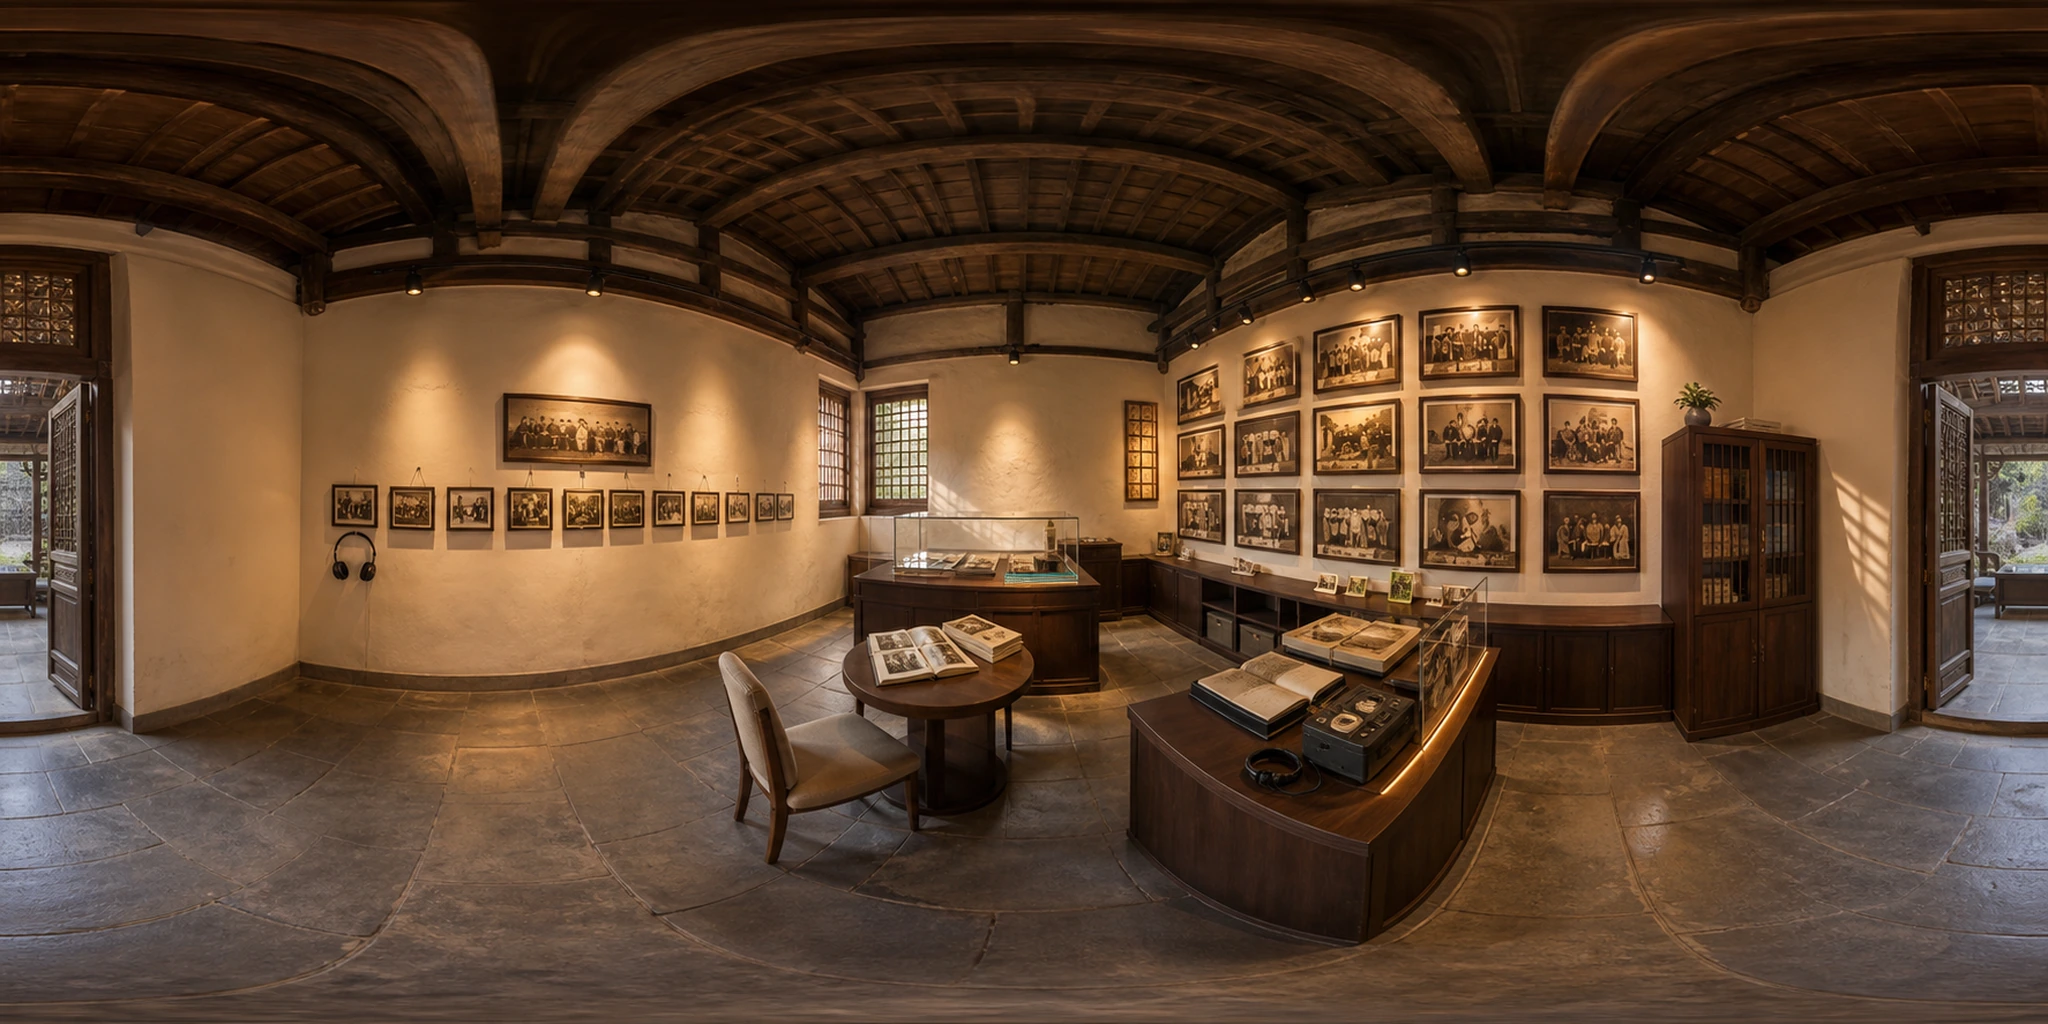
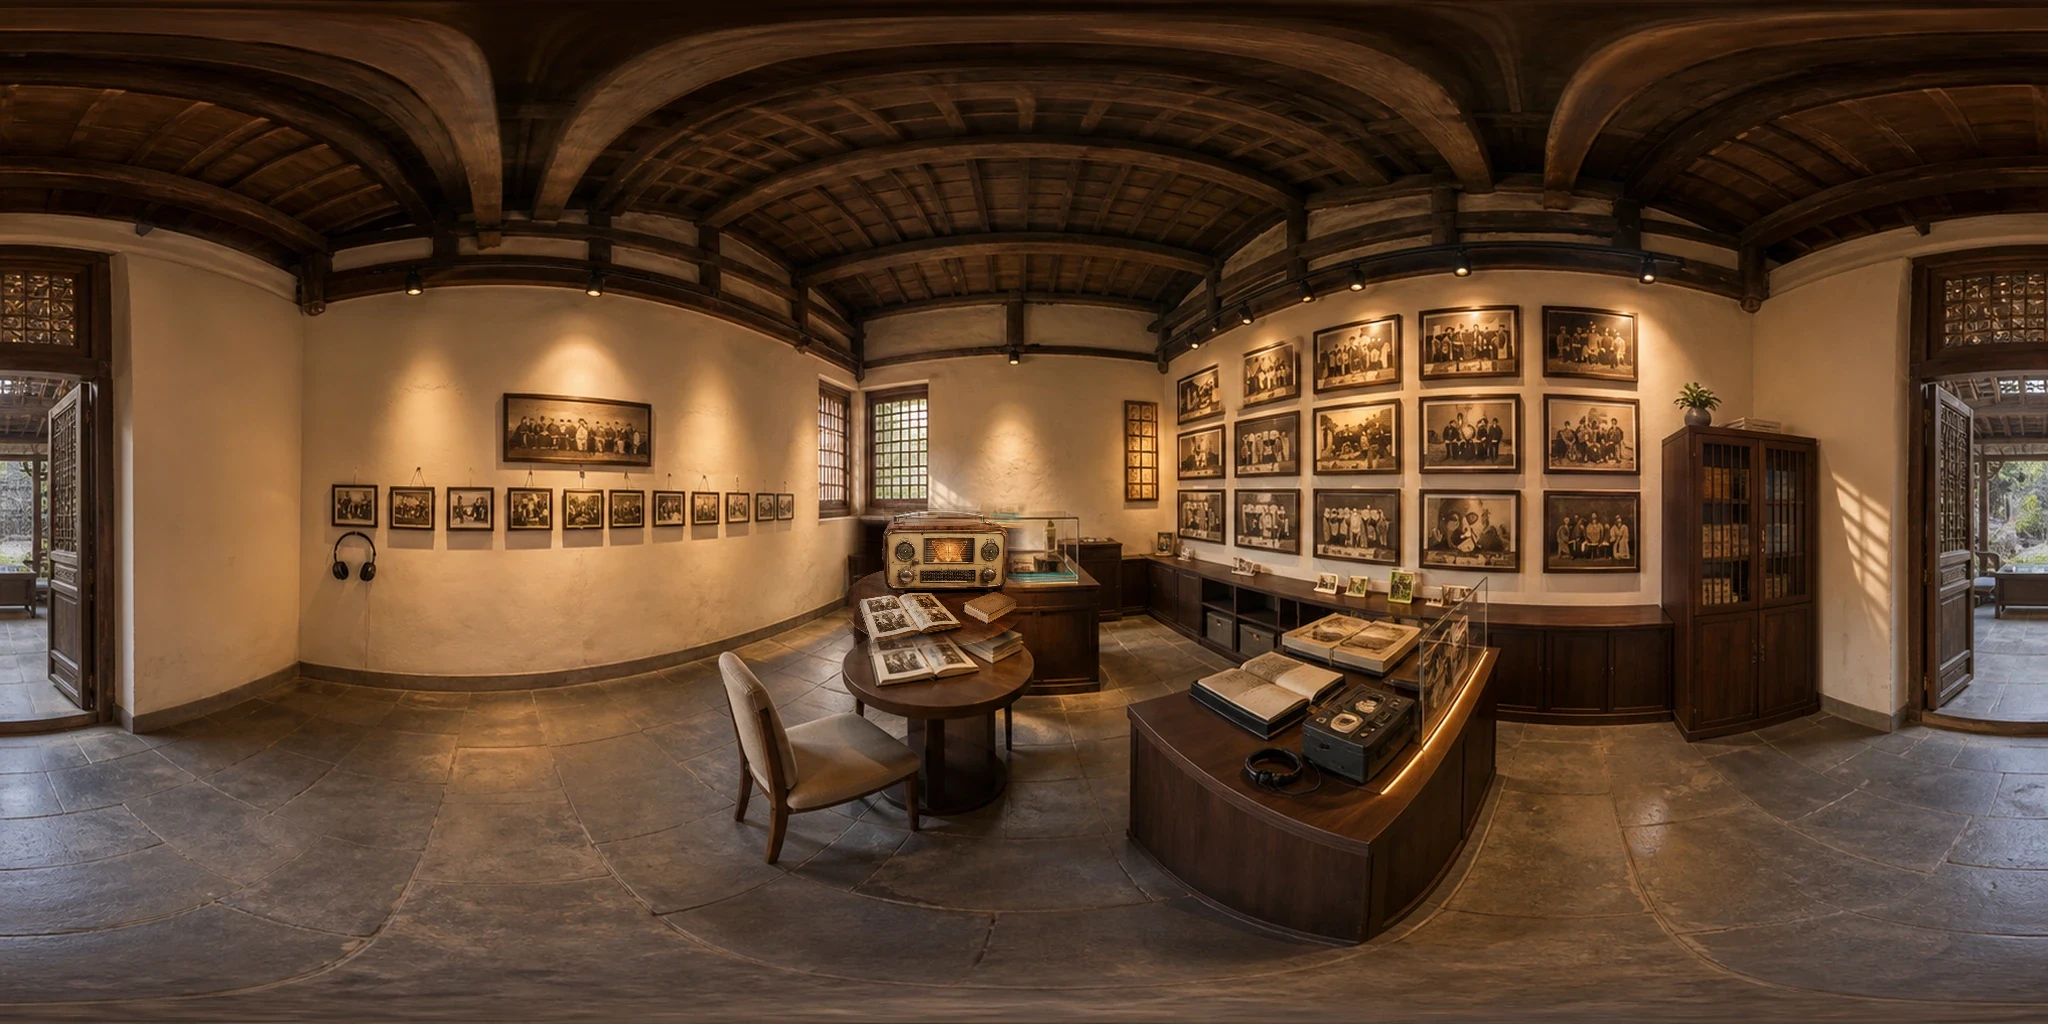
feat: bake user-composited radio into hall-center panorama (in-verse warp + feather), retire 3D radio mesh; texture cache-bust v=15; assets v=3.0.15

Changed region(s): [[0.4062, 0.4688, 0.5, 0.6562]]

diff --git a/panorama.js b/panorama.js
@@ -57,7 +57,7 @@
       id: 'hall-center',
       title: '陈老先生的房间',
       stage: '房间之内 · 3D 收音机正在播放回忆',
-      src: 'assets/panoramas/hall-center.webp',
+      src: 'assets/panoramas/hall-center.webp?v=15',
       thumb: 'assets/panoramas/hall-center-thumb.webp',
       yaw: -0.19,
       pitch: -0.04,
@@ -501,7 +501,7 @@
     const last = index === SCENES.length - 1;
     const insideRoom = index >= 2;
     room.classList.toggle('is-inside-room', insideRoom);
-    radio.visible = insideRoom;
+    radio.visible = false; // 收音机已烘焙进全景贴图（用户合成版），3D 模型退役
     radioLabel.hidden = !insideRoom;
     stageChip.innerHTML = `<span class="led ${last ? 'on-g' : 'on-a'}"></span><span>${node.stage}</span>`;
     [...nodeNav.children].forEach((button, i) => button.classList.toggle('is-active', i === index));

diff --git a/index.html b/index.html
@@ -6,8 +6,8 @@
   <meta name="theme-color" content="#17110b">
   <meta name="description" content="时光回响路演 H5：家人发起采访，让长辈的亲口讲述进入 3D 家庭记忆馆并汇集为人生之书。">
   <title>时光回响 · 家庭记忆馆</title>
-  <link rel="stylesheet" href="styles.css?v=3.0.14">
-  <link rel="stylesheet" href="panorama.css?v=3.0.14">
+  <link rel="stylesheet" href="styles.css?v=3.0.15">
+  <link rel="stylesheet" href="panorama.css?v=3.0.15">
 </head>
 <body data-shell="family">
   <svg class="svg-sprite" aria-hidden="true">
@@ -437,7 +437,7 @@
   </div>
 
   <script src="vendor/three.min.js"></script>
-  <script src="app.js?v=3.0.14"></script>
-  <script src="panorama.js?v=3.0.14"></script>
+  <script src="app.js?v=3.0.15"></script>
+  <script src="panorama.js?v=3.0.15"></script>
 </body>
 </html>

diff --git a/Product-Spec-CHANGELOG.md b/Product-Spec-CHANGELOG.md
@@ -58,6 +58,12 @@
 
 - 收音机落位微调至圆桌正中（yaw -0.22 / pitch -0.38，比例 0.42），相册在前景、收音机立于桌面中央
 
+## 3.0.15 - 2026-08-29
+
+### 变更类型：优化
+
+- 按用户合成图将收音机**直接烘焙进 hall-center 全景贴图**（直线投影→等距柱状逆变形 + 羽化融合），透视光影与空间完美一致；3D 收音机模型退役（保留热点交互与播放状态卡）
+
 ## 3.0.5 - 2026-08-29
 
 ### 变更类型：优化
